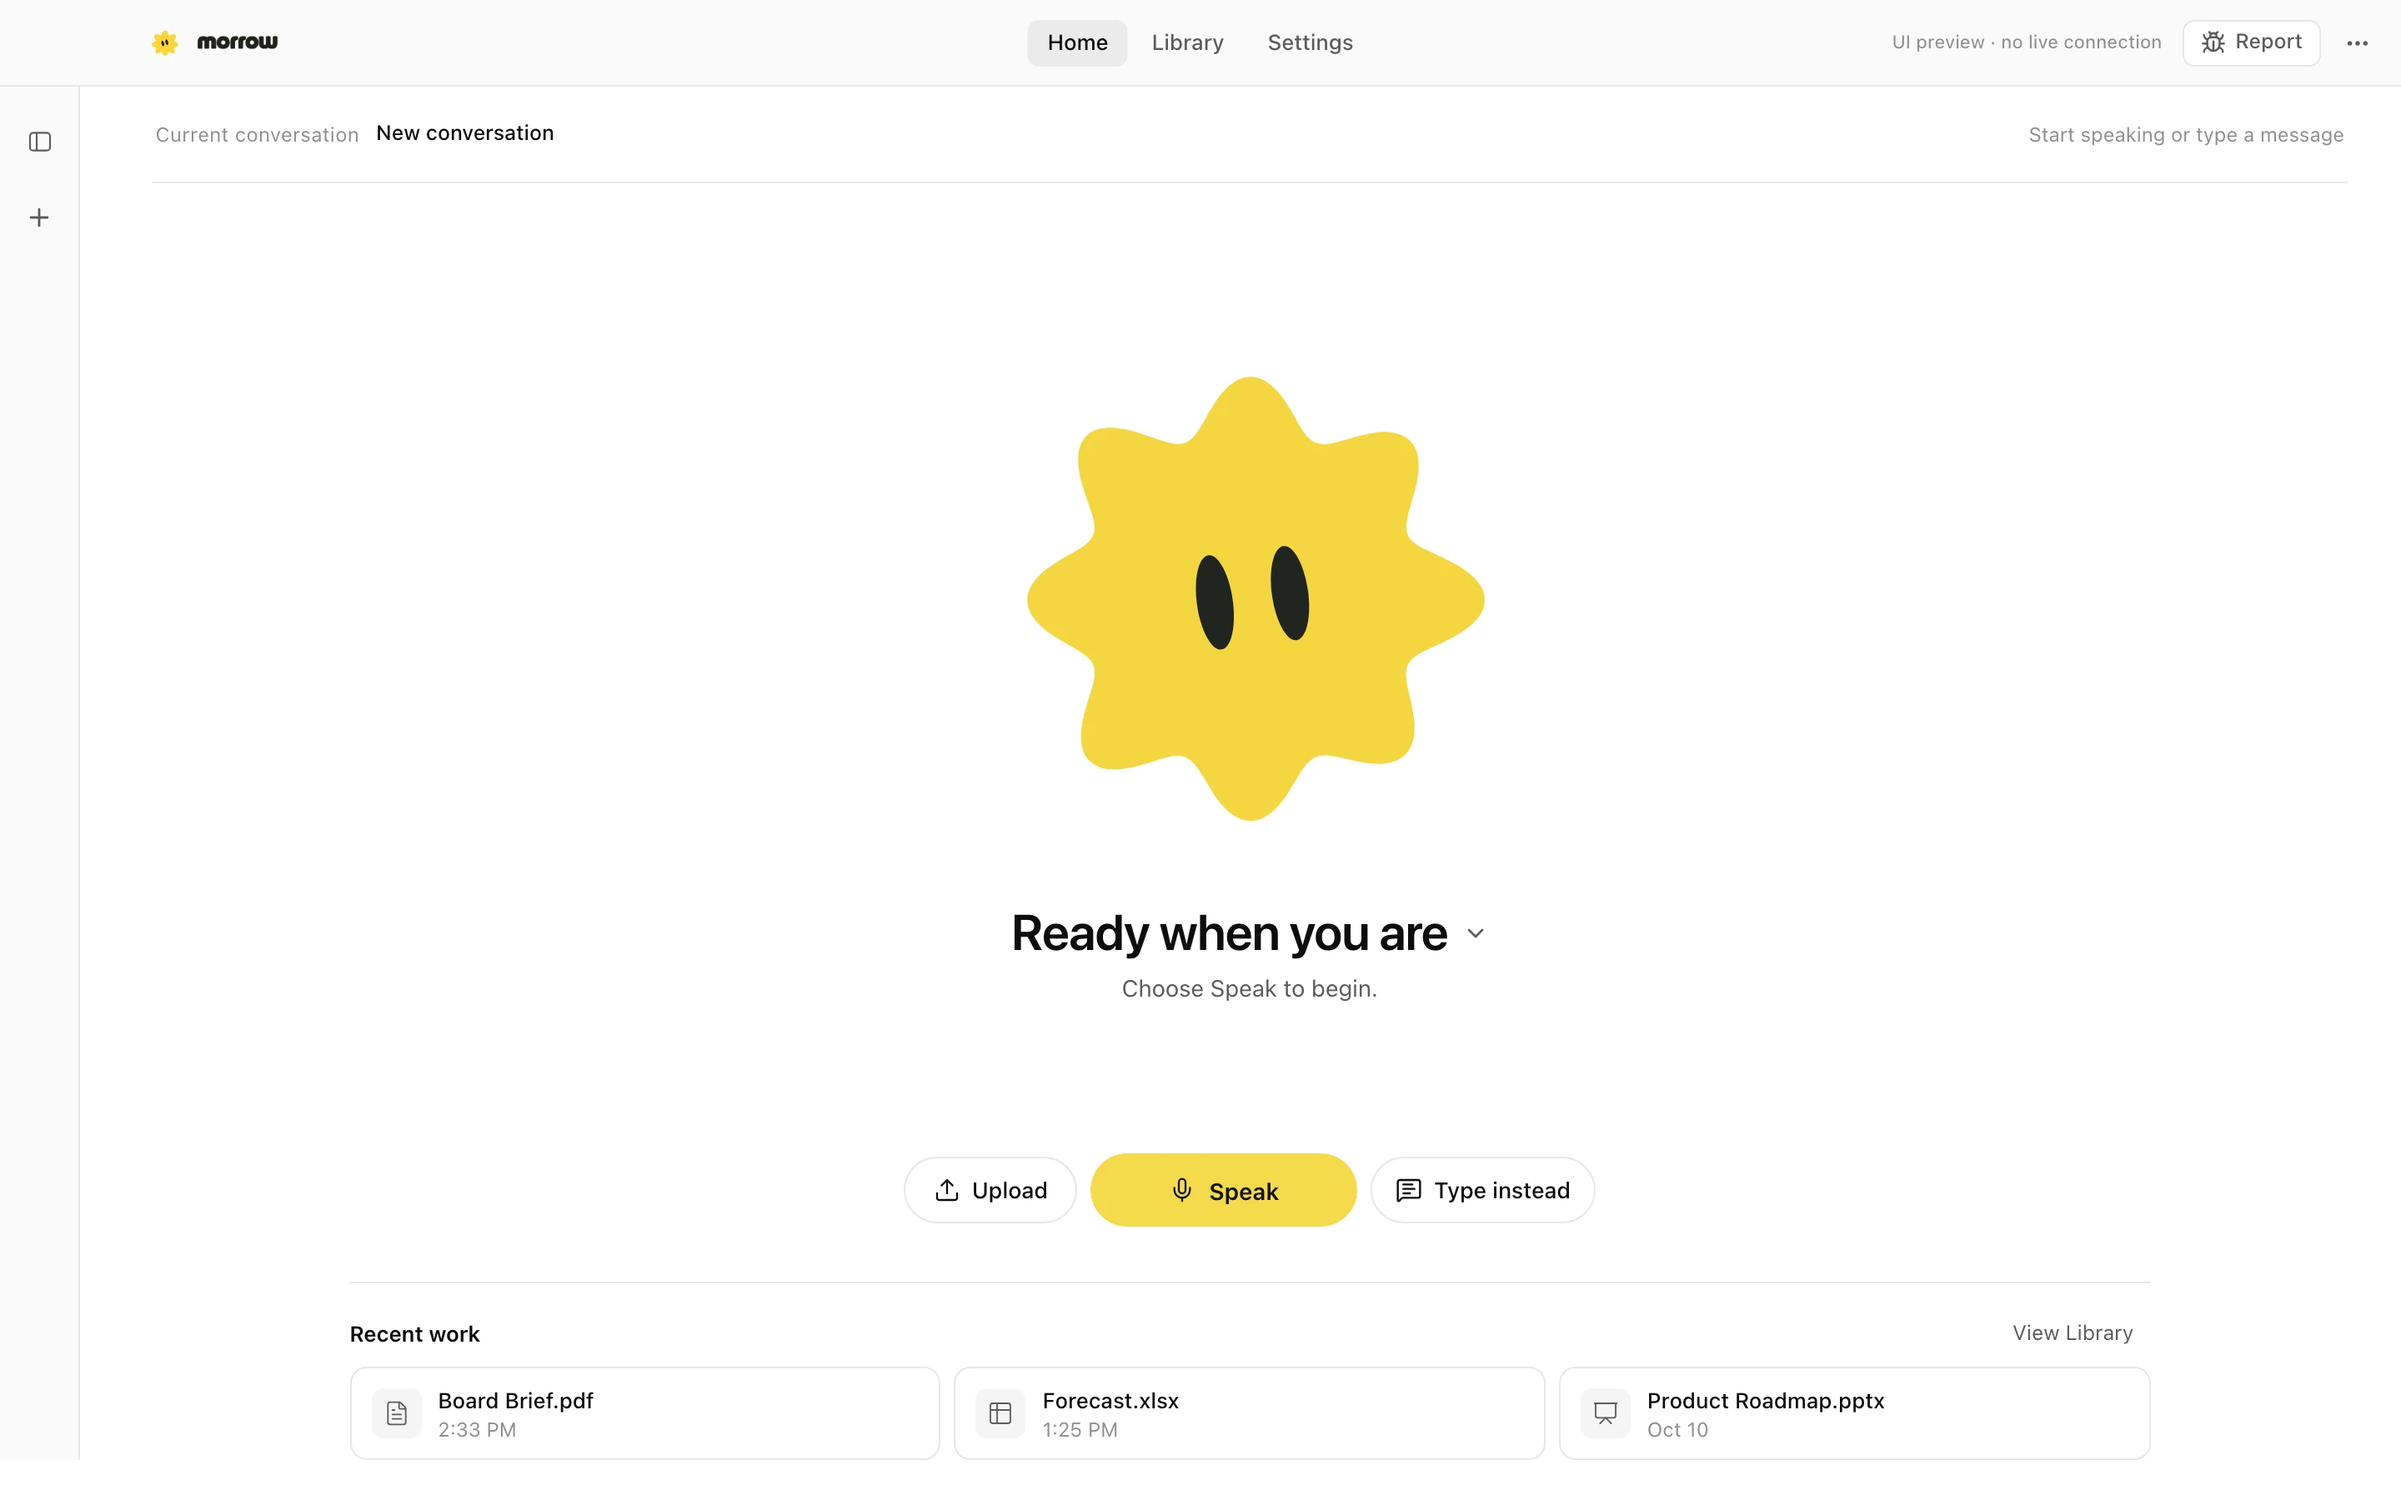
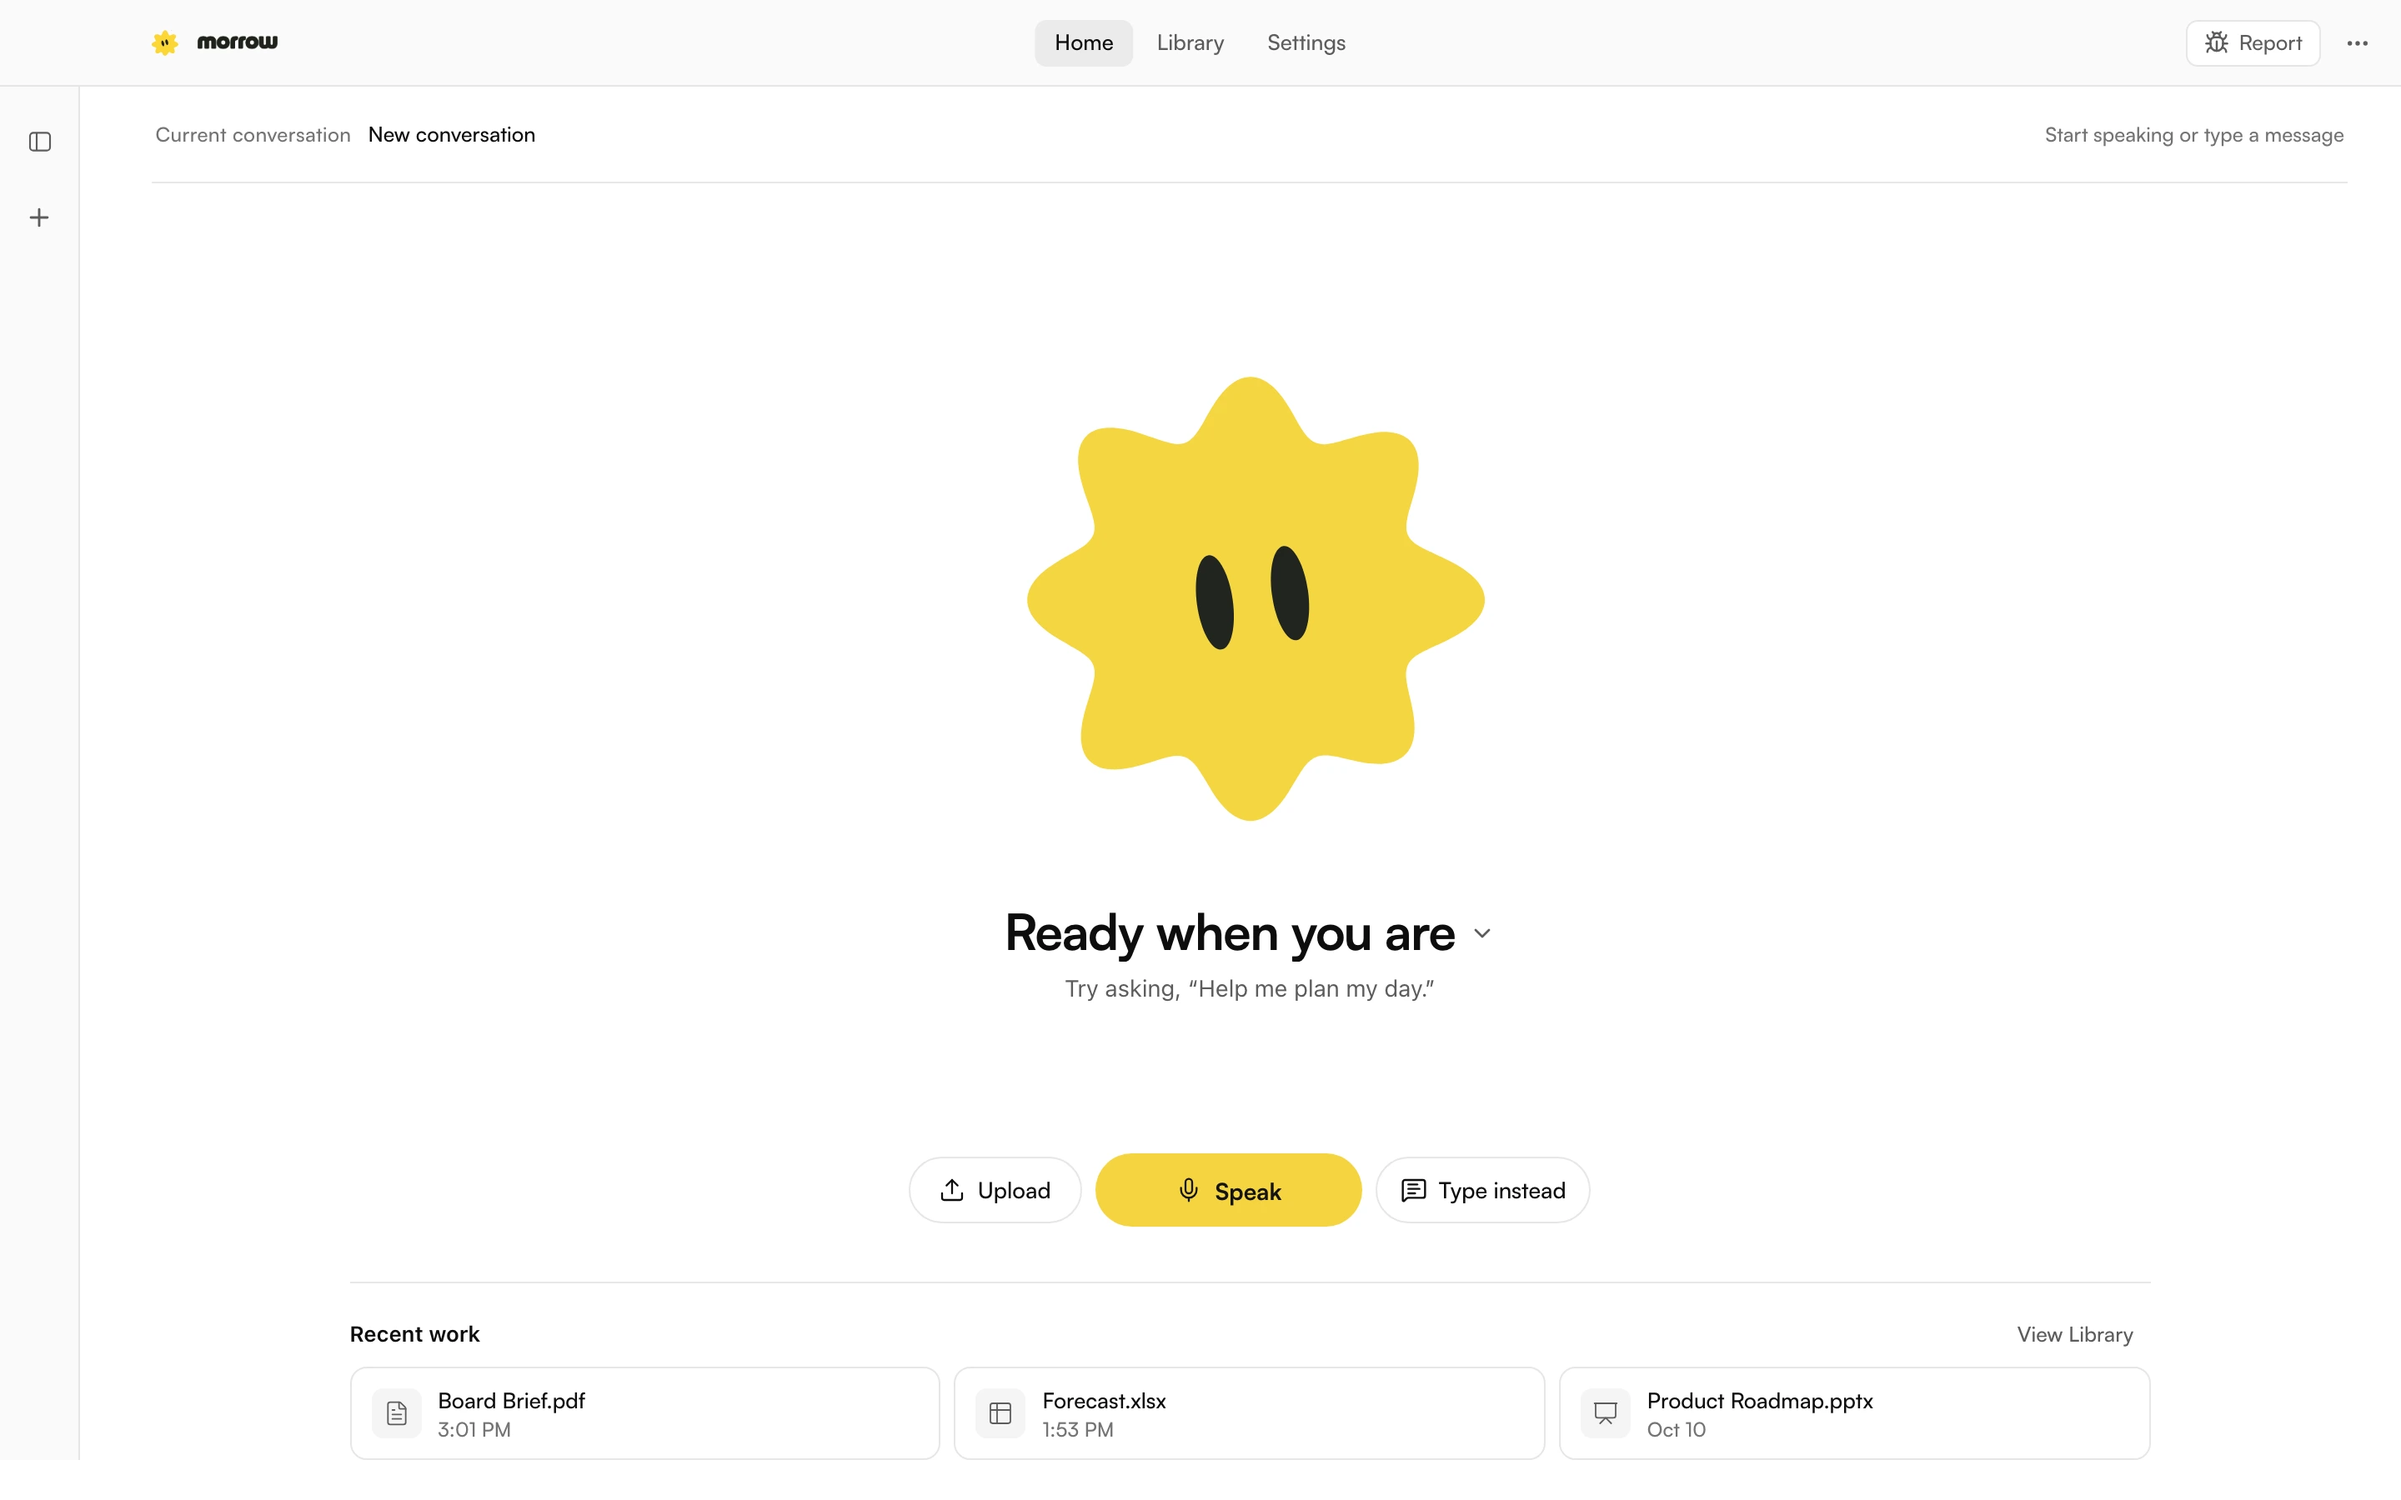
Clean homepage captures and balance demo and payoff
Hide preview notices during capture, enlarge the native island over the real Library, scale the Bharat headline with a full-width rule, and add pricing FAQ navigation.

diff --git a/published-home/index.html b/published-home/index.html
@@ -46,7 +46,7 @@
 <div class="demo-heading"><h2 class="section-title" id="demo-heading" data-split>One sentence.<br>A file you can use.</h2><div class="spoken-wrap"><p class="spoken" data-spoken>"Read my meeting notes and make a board brief."</p><span class="demo-kind">Example workflow</span></div></div>
 <div class="demo-stage">
 <figure class="window demo-screen demo-listening"><div class="window-bar" aria-hidden="true"><span class="window-dots"><i></i><i></i><i></i></span><span>Morrow</span><span class="window-bar-end"></span></div><picture><source media="(max-width: 700px)" srcset="screens/round3/listening-mobile.webp"><img src="screens/round3/listening.webp" alt="Morrow's listening state in the app" width="2880" height="1800" loading="lazy"></picture></figure>
-<div class="demo-island"><img src="screens/round3/island-working.webp" width="424" height="108" alt="Morrow's native voice island, working on a document"><p>Keep your place.<br>Morrow keeps working.</p></div>
+<div class="demo-island"><img class="island-context" src="screens/round3/library.webp" width="2880" height="1800" alt="Morrow Library behind the working voice island" loading="lazy"><div class="island-content"><img src="screens/round3/island-working.webp" width="424" height="108" alt="Morrow's native voice island, working on a document"><p>Keep your place.<br>Morrow keeps working.</p></div></div>
 <figure class="window demo-screen demo-result"><div class="window-bar" aria-hidden="true"><span class="window-dots"><i></i><i></i><i></i></span><span>Board Brief.pdf</span><span class="window-bar-end"></span></div><picture><source media="(max-width: 700px)" srcset="screens/round3/result-mobile.webp"><img src="screens/round3/result.webp" alt="A board brief open in Morrow's file viewer, ready to review" width="2880" height="1800" loading="lazy"></picture></figure>
 </div>
 <div class="demo-bottom"><ol class="demo-steps" aria-label="Example workflow stages"><li><button type="button" data-demo-step="0" aria-pressed="true"><span>1</span> Say it</button></li><li><button type="button" data-demo-step="1" aria-pressed="false"><span>2</span> Morrow works</button></li><li><button type="button" data-demo-step="2" aria-pressed="false"><span>3</span> Review the file</button></li></ol><span class="demo-caption">Real app screens. Example task.</span></div>
@@ -57,9 +57,9 @@
 <!-- Beat 4: statement and hairline rows. -->
 <section class="control section-space" aria-labelledby="control-heading"><div class="wrap"><h2 class="statement" id="control-heading" data-scrub>You decide what<br>Morrow can do.</h2><dl class="control-rows"><div><dt>Your files stay close</dt><dd>Conversations, transcripts and generated files are stored on your Mac.</dd></div><div><dt>Your account stays yours</dt><dd>Your ChatGPT sign-in stays on your device. Requests and the context they need go to OpenAI under your account's data controls.</dd></div><div><dt>Permission stays explicit</dt><dd>Choose the folder Morrow works in. Approve actions that need wider access. You can interrupt work from the app.</dd></div></dl><a class="text-link" href="/privacy">Read the privacy details <span aria-hidden="true">↗</span></a></div></section>
 <!-- Beat 5: inverted Bharat payoff. -->
-<section class="bharat" id="bharat" data-theme="dark" aria-labelledby="bharat-heading"><div class="wrap bharat-inner"><div class="bharat-top"><span lang="hi" class="deva">भारत में बना</span><span>New Delhi, India</span></div><h2 class="bharat-title" id="bharat-heading" data-split>Made in<br>Bharat.</h2><div class="bharat-bottom"><p>Built in New Delhi.<br>For the work in front of you.</p><img class="bharat-mascot" src="assets/morrow-mark-112.png" alt="Morrow's yellow star character" width="112" height="112"></div><svg class="bharat-line" viewBox="0 0 1200 48" aria-hidden="true" data-draw><path d="M0 24H1200"/></svg></div></section>
+<section class="bharat" id="bharat" data-theme="dark" aria-labelledby="bharat-heading"><div class="wrap bharat-inner"><div class="bharat-top"><span lang="hi" class="deva">भारत में बना</span><span>New Delhi, India</span></div><h2 class="bharat-title" id="bharat-heading" data-split>Made in<br>Bharat.</h2><div class="bharat-bottom"><p>Built in New Delhi.<br>For the work in front of you.</p><img class="bharat-mascot" src="assets/morrow-mark-112.png" alt="Morrow's yellow star character" width="112" height="112"></div><div class="bharat-line" aria-hidden="true"></div></div></section>
 <!-- Beat 6: one plan, amounts supplied by the billing catalog. -->
-<section class="pricing section-space" id="pricing" aria-labelledby="pricing-heading"><div class="wrap pricing-layout"><div class="pricing-intro"><h2 class="section-title" id="pricing-heading" data-split>Make room<br>for the work.</h2><p>One personal plan for Morrow on your Mac. Your ChatGPT plan is separate.</p><a class="text-link" href="/subscribe">Already have an account? Sign in <span aria-hidden="true">↗</span></a></div><div class="plan" data-plan><div class="plan-top"><h3>Morrow Personal</h3><span>Monthly</span></div><p class="price"><span data-plan-price>See current plan</span><span class="price-term">/month + GST</span></p><p class="plan-total" data-plan-total>Review the current price and taxes before you subscribe.</p><p class="plan-trial" data-trial-detail>Trial availability and billing dates are shown before you subscribe.</p><ul class="plan-includes"><li>Voice and text on your Mac</li><li>Work on files and review results</li><li>Conversations and files saved locally</li><li>Manage your plan in Morrow or online</li></ul><a class="button primary" href="/download?start=1"><span class="roll"><span data-text="Download for Mac">Download for Mac</span></span><svg viewBox="0 0 20 20" aria-hidden="true"><path d="M10 3v10m-4-4 4 4 4-4M4 14v3h12v-3"/></svg></a><p class="plan-note">UPI AutoPay and cards through Razorpay.</p></div></div></section>
+<section class="pricing section-space" id="pricing" aria-labelledby="pricing-heading"><div class="wrap pricing-layout"><div class="pricing-intro"><h2 class="section-title" id="pricing-heading" data-split>Make room<br>for the work.</h2><p>One personal plan for Morrow on your Mac. Your ChatGPT plan is separate.</p><div class="pricing-links"><a class="text-link" href="/subscribe">Already have an account? Sign in <span aria-hidden="true">↗</span></a><a class="text-link" href="#faq">Trial, AutoPay and cancellation <span aria-hidden="true">↓</span></a></div></div><div class="plan" data-plan><div class="plan-top"><h3>Morrow Personal</h3><span>Monthly</span></div><p class="price"><span data-plan-price>See current plan</span><span class="price-term">/month + GST</span></p><p class="plan-total" data-plan-total>Review the current price and taxes before you subscribe.</p><p class="plan-trial" data-trial-detail>Trial availability and billing dates are shown before you subscribe.</p><ul class="plan-includes"><li>Voice and text on your Mac</li><li>Work on files and review results</li><li>Conversations and files saved locally</li><li>Manage your plan in Morrow or online</li></ul><a class="button primary" href="/download?start=1"><span class="roll"><span data-text="Download for Mac">Download for Mac</span></span><svg viewBox="0 0 20 20" aria-hidden="true"><path d="M10 3v10m-4-4 4 4 4-4M4 14v3h12v-3"/></svg></a><p class="plan-note">UPI AutoPay and cards through Razorpay.</p></div></div></section>
 <!-- Beat 7: short native disclosures. -->
 <section class="faq section-space" id="faq" aria-labelledby="faq-heading"><div class="wrap faq-layout"><h2 class="section-title" id="faq-heading" data-split>Before you<br>start.</h2><div class="faq-rows">
 <details><summary>Is there a free trial?<span aria-hidden="true">+</span></summary><p data-trial-faq>When a trial is available, its length and first charge date appear before you authorize payment. Download Morrow to review the current offer.</p></details>

diff --git a/published-home/home.css b/published-home/home.css
@@ -47,3 +47,15 @@ html.motion-off .roll>span{transform:none!important}
 .demo:not(.is-live) .demo-steps{display:none}
 
 .nav .button.primary{background:var(--ink);color:var(--white)}.nav.is-dark .button.primary{background:var(--white);color:var(--ink)}
+
+/* A native island over the real Library, rather than an empty stage. */
+.demo.is-live .demo-island{width:calc(100% - 44px);overflow:hidden;border-radius:16px}
+.demo-island .island-context{position:absolute;inset:0;width:100%;height:100%;max-width:none;object-fit:cover;object-position:50% 30%;opacity:.38;border-radius:0;margin:0}
+.island-content{position:relative;z-index:1;width:min(640px,calc(100% - 48px));margin:auto;text-align:center}
+.demo-island .island-content img{width:640px;max-width:100%;border-radius:28px}
+.demo-island .island-content p{display:inline-block;background:var(--white);padding:12px 24px;border-radius:12px;font-size:28px;margin-top:28px}
+.demo:not(.is-live) .demo-island{position:relative;width:100%;min-height:420px;display:flex;overflow:hidden;border-radius:16px}
+.bharat-title{font-size:clamp(120px,17.8vw,256px);line-height:.92;margin-block:48px}
+.bharat-line{width:100%;height:0;border-top:1px solid #525252;margin-top:40px}
+.pricing-links{display:flex;flex-direction:column;align-items:flex-start;gap:8px;margin-top:24px}.pricing-intro .pricing-links .text-link{margin-top:0}
+@media(max-width:700px){.demo.is-live .demo-island{width:calc(100% - 32px)}.island-content{width:calc(100% - 24px)}.demo-island .island-content img{border-radius:20px}.demo-island .island-content p{font-size:22px;padding:10px 12px;margin-top:20px}.demo:not(.is-live) .demo-island{min-height:350px}.bharat-title{font-size:88px;line-height:1;margin-block:56px}.bharat-line{margin-top:32px}}

diff --git a/published-home/screens/round3/SOURCES.md b/published-home/screens/round3/SOURCES.md
@@ -13,3 +13,5 @@ Captured 11 October 2026 from the running app preview at `http://localhost:1420`
 | island-working.webp | The existing real native island preview in `qa/app/round2/native-island-working-light.png`, cropped x=508..932, y=22..130. The native island has no route in the Vite preview. |
 
 All captures show interface preview sample data. The website calls the command sequence an example workflow. It does not claim a live task ran during capture.
+
+Recaptured after review with capture-only CSS hiding `.morrow-preview-label` and `#onboarding-preview-notice`. Application source is unchanged. Each route was checked for other visible development labels before capture; see `qa/round3/home/app/home-clean-capture-report.json`. `library.webp` is the full fresh `?theme=light&view=work` capture used behind the native island.
